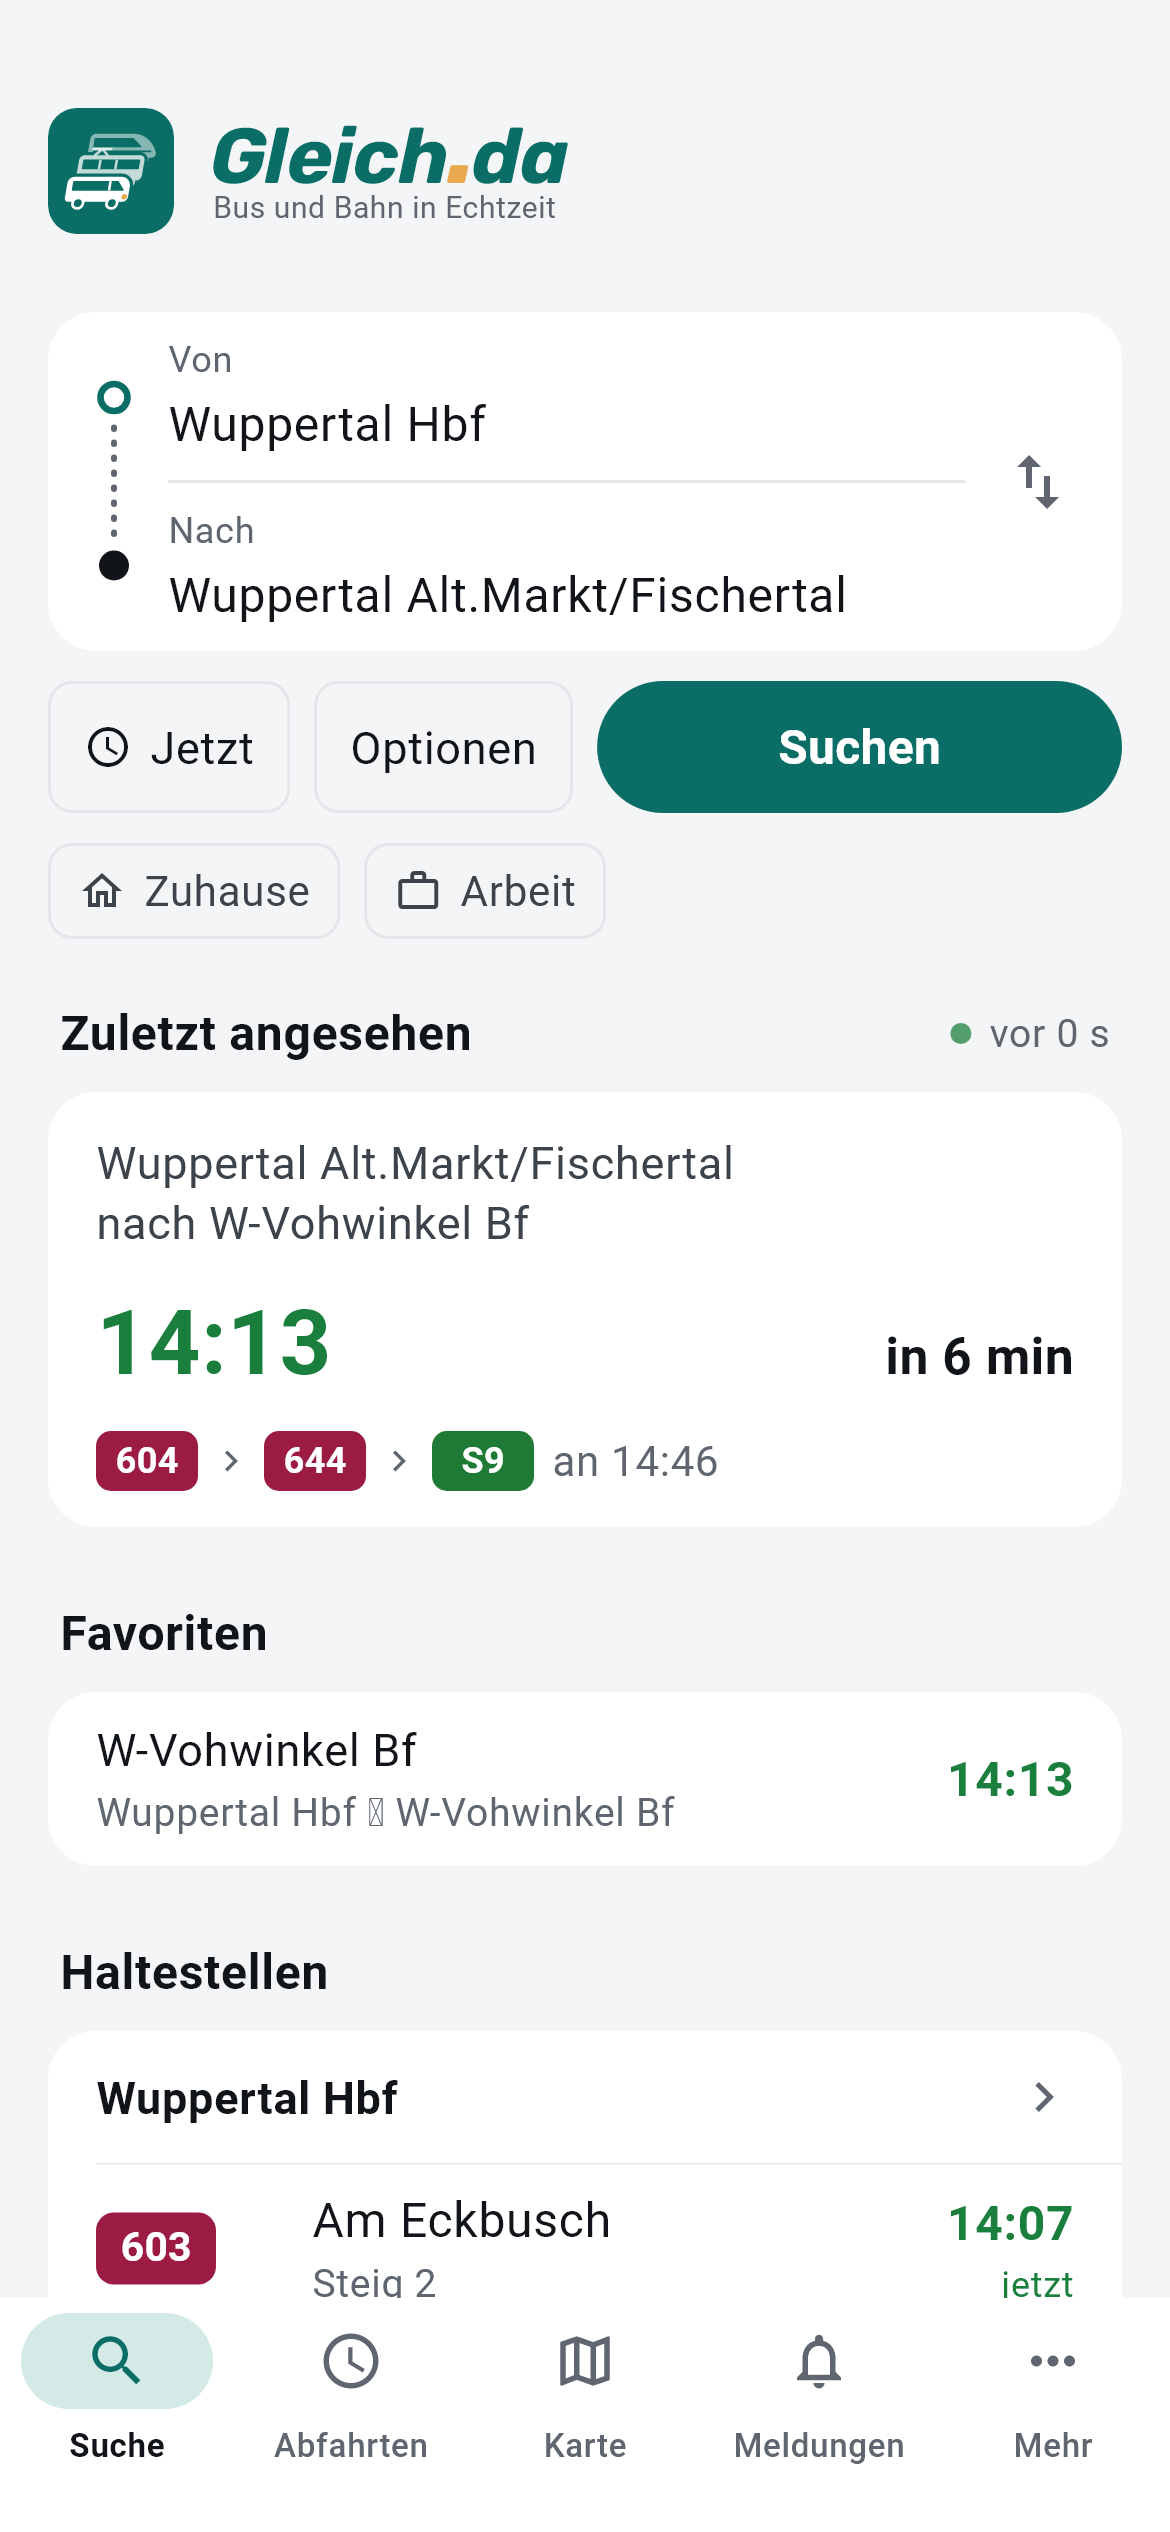
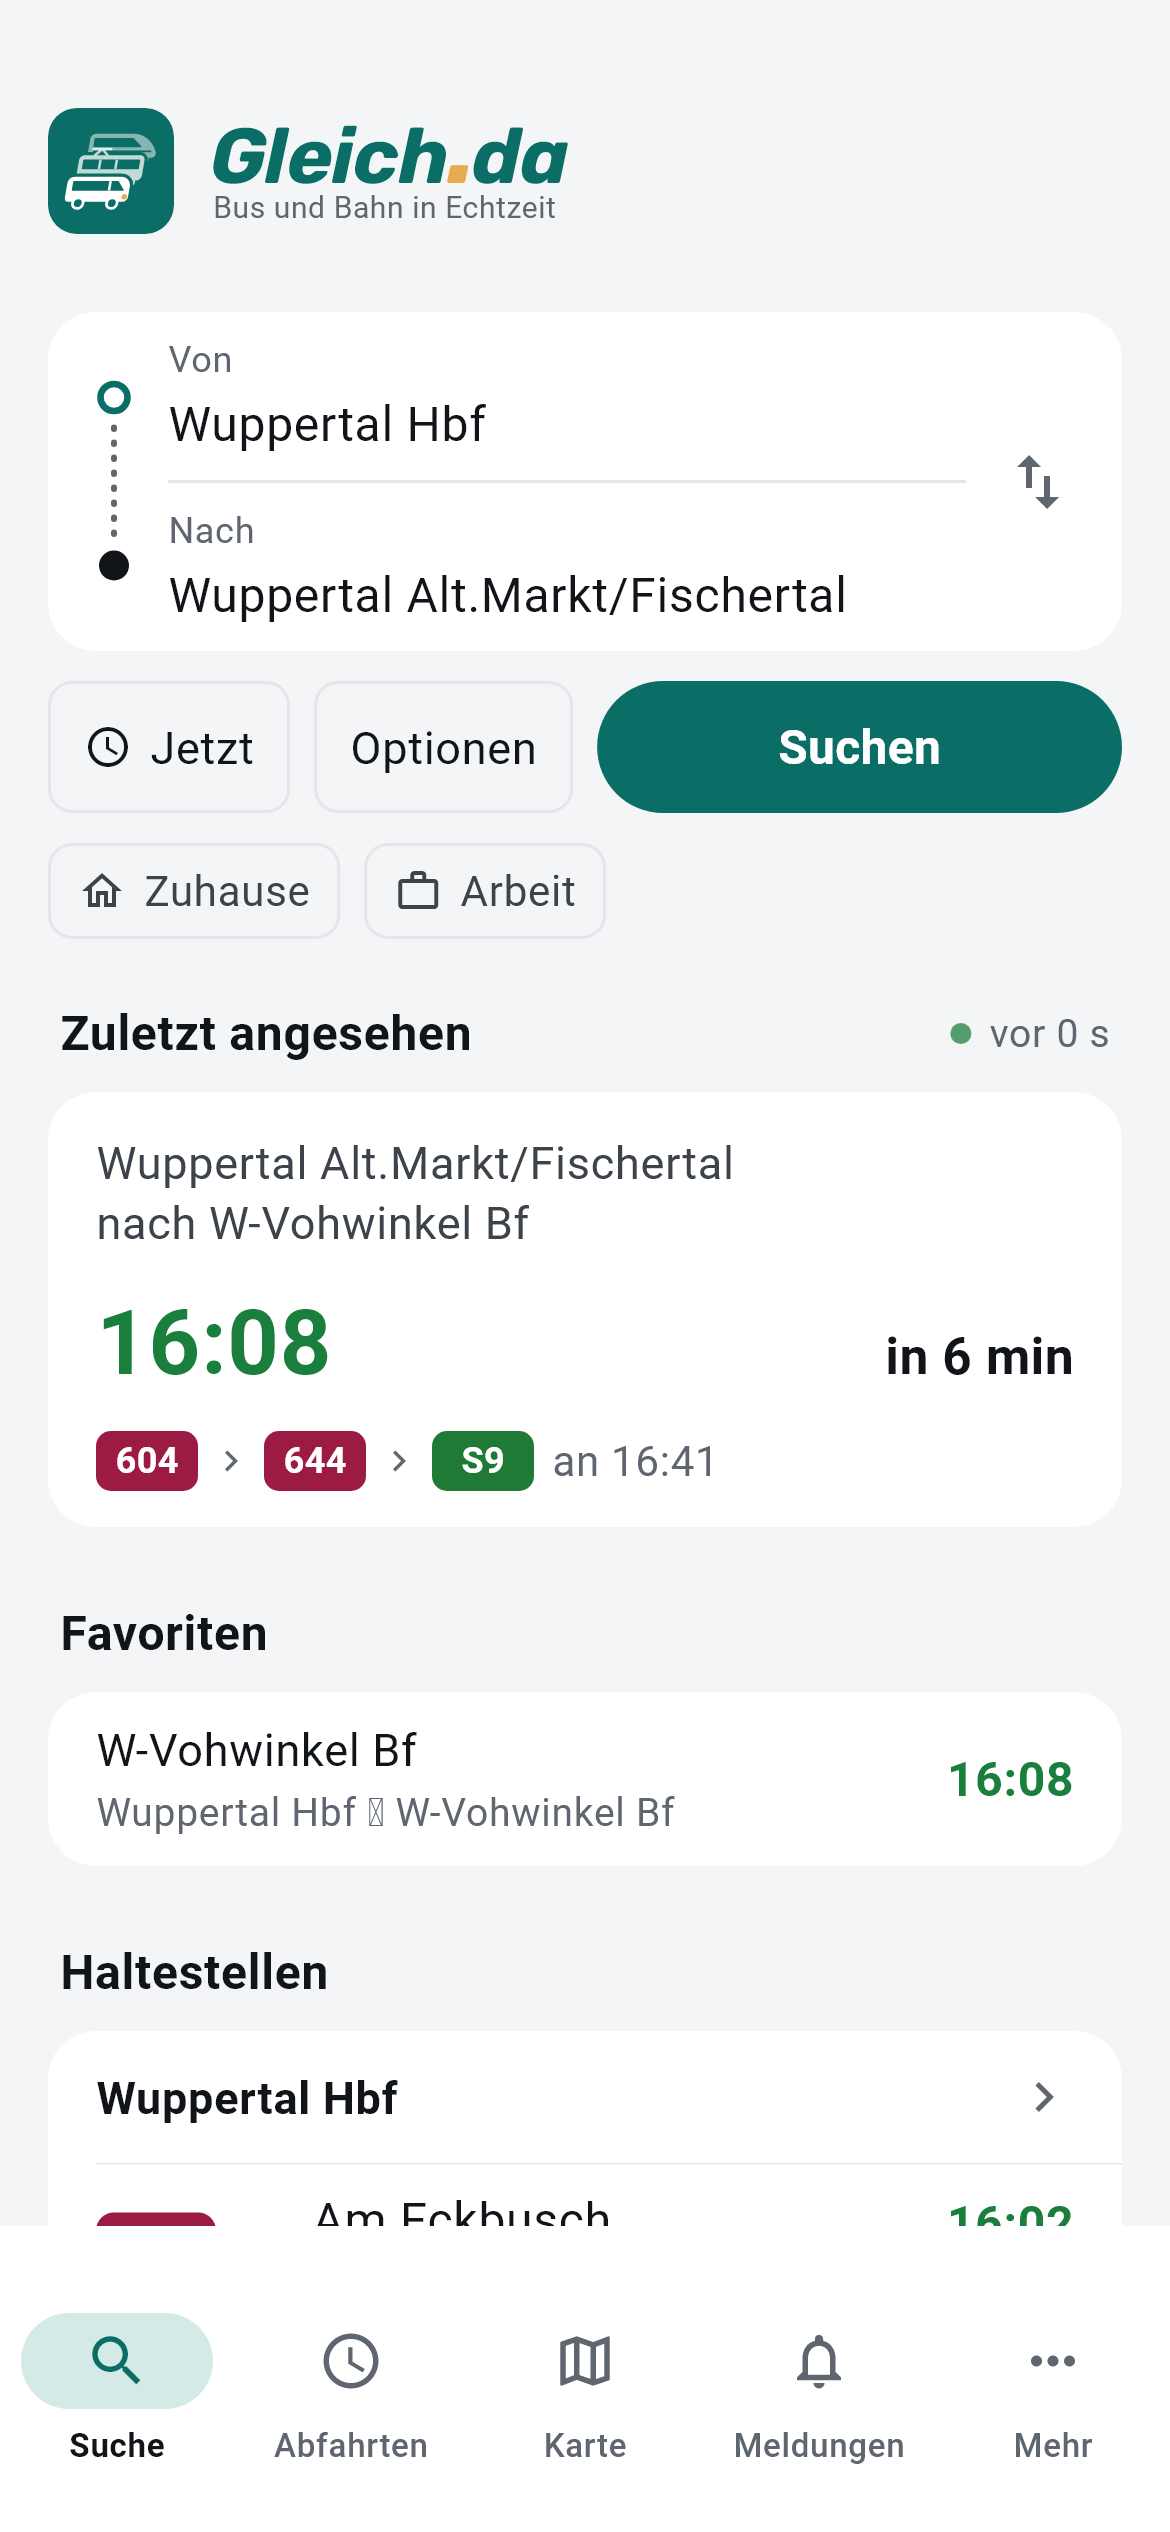
Reiterleiste bleibt auf jeder Ansicht stehen

diff --git a/lib/app.dart b/lib/app.dart
@@ -41,9 +41,32 @@ final popupOnHome = ValueNotifier<bool>(false);
 /// beim Öffnen, Zurückgehen und bei der Zurück-Geste.
 final firstPageAnimation = ValueNotifier<Animation<double>?>(null);
 
-/// Höhe der Reiterleiste: So weit über dem unteren Rand steht die
-/// Unterwegs-Leiste auf der Startseite.
+/// Höhe der Reiterleiste (mit dem Rand unten): So weit über dem unteren Rand
+/// steht die Unterwegs-Leiste.
 final tabBarHeight = ValueNotifier<double>(0);
+
+/// Gewählter Reiter der Startseite. Die Reiterleiste liegt im App-Rahmen und
+/// bleibt auf jeder Ansicht stehen (Nutzerwunsch 24.09.2026) – ein Tipp führt
+/// von überall zu diesem Reiter zurück.
+final currentTab = ValueNotifier<int>(0);
+
+/// Die Startseite mit den Reitern liegt unten im Stapel (in Bildschirmfotos
+/// einzelner Ansichten nicht) – nur dann gibt es die Reiterleiste.
+final shellMounted = ValueNotifier<bool>(false);
+
+const shellTabs = [
+  (Icons.search, 'Suche'),
+  (Icons.schedule, 'Abfahrten'),
+  (Icons.map_outlined, 'Karte'),
+  (Icons.notifications_none, 'Meldungen'),
+  (Icons.more_horiz, 'Mehr'),
+];
+
+/// Reiter wählen – aus einer geöffneten Ansicht zurück zur Startseite.
+void selectTab(int i) {
+  navigatorKey.currentState?.popUntil((r) => r.isFirst);
+  currentTab.value = i;
+}
 
 /// Merkt sich den Stapel der Ansichten: für [homeOnTop] und dafür, dass
 /// [pushOnce] keine Ansicht doppelt öffnet.
@@ -168,65 +191,84 @@ Widget appFrame(BuildContext context, Widget? child) {
   final inset = MediaQuery.paddingOf(context).bottom;
   return Consumer(builder: (context, ref, _) {
     final shown = companionShown(ref);
-    // Platz unter den Seiten freihalten (nach dem Bild, nicht im Aufbau).
-    final reserve = shown ? companionBarHeight : 0.0;
-    if (companionReserve.value != reserve) {
-      WidgetsBinding.instance.addPostFrameCallback((_) => companionReserve.value = reserve);
-    }
-    return Stack(children: [
-      // Die Ansicht behält die ganze Höhe; Seiten über der Startseite halten
-      // den Platz der Leiste selbst frei (CompanionAwareTransitions).
-      Positioned.fill(child: child!),
-      if (shown)
-        ListenableBuilder(
-          listenable: Listenable.merge([homeOnTop, popupOnHome, tabBarHeight, firstPageAnimation]),
-          builder: (context, _) {
-            final anim = firstPageAnimation.value;
-            final tabs = tabBarHeight.value;
-            final hidden = popupOnHome.value;
-            return AnimatedBuilder(
-              animation: anim ?? const AlwaysStoppedAnimation(0.0),
-              builder: (context, _) {
-                // 0 = über den Reitern (Startseite), 1 = ganz unten.
-                final t = tabs <= 0
-                    ? 1.0
-                    : anim == null
-                        ? (homeOnTop.value ? 0.0 : 1.0)
-                        : (MediaQuery.of(context).disableAnimations ? anim.value.roundToDouble() : Motion.curve.transform(anim.value));
-                return Positioned(
-                  left: 0,
-                  right: 0,
-                  bottom: tabs * (1 - t),
-                  child: IgnorePointer(
-                    ignoring: hidden,
-                    child: AnimatedOpacity(
-                      duration: Motion.of(context, Motion.short),
-                      opacity: hidden ? 0 : 1,
-                      child: _SlideIn(
-                        child: ColoredBox(
-                          color: context.c.bar,
-                          child: Column(mainAxisSize: MainAxisSize.min, children: [
-                            const GlobalCompanionBar(),
-                            SizedBox(height: inset * t),
-                          ]),
-                        ),
-                      ),
-                    ),
+    return ListenableBuilder(
+      listenable: Listenable.merge([shellMounted, tabBarHeight, popupOnHome]),
+      builder: (context, _) {
+        final shell = shellMounted.value;
+        // Platz unter jeder geöffneten Ansicht: Unterwegs-Leiste und Reiter
+        // (nach dem Bild setzen, nicht im Aufbau).
+        final reserve = (shown ? companionBarHeight : 0.0) + (shell ? tabBarHeight.value : (shown ? inset : 0.0));
+        if (companionReserve.value != reserve) {
+          WidgetsBinding.instance.addPostFrameCallback((_) => companionReserve.value = reserve);
+        }
+        final hidden = popupOnHome.value;
+        return Stack(children: [
+          Positioned.fill(child: child!),
+          // Unten: Unterwegs-Leiste und darunter die Reiter – auf jeder Ansicht.
+          // Über Blättern von unten und Dialogen treten beide zurück.
+          if (shell || shown)
+            Positioned(
+              left: 0,
+              right: 0,
+              bottom: 0,
+              child: IgnorePointer(
+                ignoring: hidden,
+                child: AnimatedSlide(
+                  duration: Motion.of(context, Motion.short),
+                  curve: Motion.curve,
+                  offset: hidden ? const Offset(0, 1) : Offset.zero,
+                  child: ColoredBox(
+                    color: context.c.bar,
+                    child: Column(mainAxisSize: MainAxisSize.min, children: [
+                      if (shown) const _SlideIn(child: GlobalCompanionBar()),
+                      if (shell)
+                        const _TabBar()
+                      else if (shown)
+                        SizedBox(height: inset),
+                    ]),
                   ),
-                );
-              },
-            );
-          },
-        ),
-      Positioned(
-        top: 0,
-        left: 0,
-        right: 0,
-        height: top,
-        child: IgnorePointer(child: ColoredBox(color: Theme.of(context).scaffoldBackgroundColor)),
-      ),
-    ]);
+                ),
+              ),
+            ),
+          Positioned(
+            top: 0,
+            left: 0,
+            right: 0,
+            height: top,
+            child: IgnorePointer(child: ColoredBox(color: Theme.of(context).scaffoldBackgroundColor)),
+          ),
+        ]);
+      },
+    );
   });
+}
+
+/// Reiterleiste für die ganze App.
+class _TabBar extends StatelessWidget {
+  const _TabBar();
+
+  @override
+  Widget build(BuildContext context) => _MeasureHeight(
+        onHeight: (h) => tabBarHeight.value = h,
+        child: ValueListenableBuilder<int>(
+          valueListenable: currentTab,
+          builder: (context, tab, _) => Material(
+            type: MaterialType.transparency,
+            child: context.isIOS
+                ? _IosTabBar(index: tab, onTap: selectTab, tabs: shellTabs)
+                : NavigationBar(
+                    selectedIndex: tab,
+                    onDestinationSelected: selectTab,
+                    labelBehavior: NavigationDestinationLabelBehavior.alwaysShow,
+                    destinations: [
+                      // Ohne Tooltip: Die Beschriftung steht darunter, und über dem
+                      // Navigator (App-Rahmen) gibt es keine Ebene für Tooltips.
+                      for (final t in shellTabs) NavigationDestination(icon: Icon(t.$1), label: t.$2, tooltip: ''),
+                    ],
+                  ),
+          ),
+        ),
+      );
 }
 
 /// Die Leiste erscheint beim Losfahren von unten statt plötzlich.
@@ -265,13 +307,18 @@ class HomeShell extends ConsumerStatefulWidget {
 }
 
 class _HomeShellState extends ConsumerState<HomeShell> {
-  int _tab = 0;
+  int get _tab => currentTab.value;
   final _visited = <int>{0};
+
+  void _onTab() => setState(() => _visited.add(currentTab.value));
   late final AppLifecycleListener _life;
 
   @override
   void initState() {
     super.initState();
+    currentTab.addListener(_onTab);
+    _visited.add(currentTab.value);
+    WidgetsBinding.instance.addPostFrameCallback((_) => shellMounted.value = true);
     // Versionsabgleich beim Start anstoßen.
     Future.microtask(() => ref.read(updateProvider));
     // Erster Start: erklären, wofür der Standort gebraucht wird – bevor
@@ -313,22 +360,11 @@ class _HomeShellState extends ConsumerState<HomeShell> {
 
   @override
   void dispose() {
+    currentTab.removeListener(_onTab);
+    shellMounted.value = false;
     _life.dispose();
     super.dispose();
   }
-
-  void _select(int i) => setState(() {
-        _tab = i;
-        _visited.add(i);
-      });
-
-  static const _tabs = [
-    (Icons.search, 'Suche'),
-    (Icons.schedule, 'Abfahrten'),
-    (Icons.map_outlined, 'Karte'),
-    (Icons.notifications_none, 'Meldungen'),
-    (Icons.more_horiz, 'Mehr'),
-  ];
 
   @override
   Widget build(BuildContext context) {
@@ -356,29 +392,16 @@ class _HomeShellState extends ConsumerState<HomeShell> {
           ),
           const Positioned(left: 12, right: 12, bottom: 12, child: UpdateToast()),
         ]),
-        // Platz für die Unterwegs-Leiste über den Reitern (sie selbst liegt
-        // in appFrame und gleitet beim Ansichtwechsel); die Reiter bleiben fest.
-        bottomNavigationBar: Column(mainAxisSize: MainAxisSize.min, children: [
-          AnimatedContainer(
+        // Platz für Unterwegs-Leiste und Reiter – beide liegen im App-Rahmen
+        // und bleiben auf jeder Ansicht stehen.
+        bottomNavigationBar: ValueListenableBuilder<double>(
+          valueListenable: tabBarHeight,
+          builder: (context, tabs, _) => AnimatedContainer(
             duration: companionMove,
             curve: Motion.curve,
-            height: companionShown(ref) ? companionBarHeight : 0,
+            height: (companionShown(ref) ? companionBarHeight : 0) + tabs,
           ),
-          _MeasureHeight(
-            onHeight: (h) => tabBarHeight.value = h,
-            child: context.isIOS
-            ? _IosTabBar(index: _tab, onTap: _select, tabs: _tabs)
-            : NavigationBar(
-                selectedIndex: _tab,
-                onDestinationSelected: _select,
-                labelBehavior: NavigationDestinationLabelBehavior.alwaysShow,
-                destinations: [
-                  for (final t in _tabs)
-                    NavigationDestination(icon: Icon(t.$1), label: t.$2),
-                ],
-              ),
-          ),
-        ]),
+        ),
       ),
     );
   }

diff --git a/lib/ui/theme.dart b/lib/ui/theme.dart
@@ -1,3 +1,5 @@
+import 'dart:math' as math;
+
 import 'package:flutter/cupertino.dart' show CupertinoPageTransitionsBuilder;
 import 'package:flutter/material.dart';
 
@@ -419,16 +421,30 @@ class _CompanionReserve extends StatelessWidget {
 
   @override
   Widget build(BuildContext context) {
-    final inset = MediaQuery.paddingOf(context).bottom;
     final bar = Theme.of(context).extension<AppColors>()!.bar;
     // Immer derselbe Aufbau – sonst ginge beim Losfahren der Zustand der Seite verloren.
     return ValueListenableBuilder<double>(
       valueListenable: companionReserve,
       child: child,
-      builder: (context, h, child) => Column(children: [
-        Expanded(child: MediaQuery.removePadding(context: context, removeBottom: h > 0, child: child!)),
-        ColoredBox(color: bar, child: SizedBox(width: double.infinity, height: h > 0 ? h + inset : 0)),
-      ]),
+      builder: (context, h, child) {
+        // Die Tastatur verdeckt die Leisten mit – sie zählt nur, soweit sie
+        // über den freigehaltenen Platz hinausreicht.
+        final mq = MediaQuery.of(context);
+        final kb = math.max(0.0, mq.viewInsets.bottom - h);
+        return Column(children: [
+          Expanded(
+            child: MediaQuery(
+              data: mq.copyWith(
+                padding: h > 0 ? mq.padding.copyWith(bottom: 0) : mq.padding,
+                viewPadding: h > 0 ? mq.viewPadding.copyWith(bottom: 0) : mq.viewPadding,
+                viewInsets: mq.viewInsets.copyWith(bottom: kb),
+              ),
+              child: child!,
+            ),
+          ),
+          ColoredBox(color: bar, child: SizedBox(width: double.infinity, height: h)),
+        ]);
+      },
     );
   }
 }

diff --git a/test_screens/screens_test.dart b/test_screens/screens_test.dart
@@ -204,6 +204,8 @@ void main() {
     tester.platformDispatcher.textScaleFactorTestValue = textScale;
     addTearDown(tester.platformDispatcher.clearTextScaleFactorTestValue);
     tabBarHeight.value = 0; // Reiterleiste eines vorigen Tests vergessen
+    currentTab.value = 0; // gewählter Reiter ist app-weit – je Bild neu
+    shellMounted.value = false;
     tester.view.physicalSize = const Size(390 * 3, 844 * 3);
     tester.view.devicePixelRatio = 3;
     tester.view.padding = const FakeViewPadding(top: 24 * 3, bottom: 16 * 3);
@@ -431,7 +433,7 @@ void main() {
         overrides: [companionProvider.overrideWith(() => _Following(onBoard.id))],
         act: (t) async {
           // Von der Startseite in die Fahrt: Die Leiste gleitet nach ganz unten.
-          Navigator.of(t.element(find.byType(NavigationBar)))
+          Navigator.of(t.element(find.byType(HomeShell)))
               .push(MaterialPageRoute<void>(builder: (_) => const TripScreen()));
           for (var i = 0; i < 6; i++) {
             await t.pump(const Duration(milliseconds: 100));
@@ -444,7 +446,7 @@ void main() {
         seed: (r) => r.saveLastTrip(onBoard),
         overrides: [companionProvider.overrideWith(() => _Following(onBoard.id))],
         act: (t) async {
-          Navigator.of(t.element(find.byType(NavigationBar)))
+          Navigator.of(t.element(find.byType(HomeShell)))
               .push(MaterialPageRoute<void>(builder: (_) => const TripScreen()));
           await t.pump();
           await t.pump(const Duration(milliseconds: 110)); // mitten im Wechsel

diff --git a/docs/abgleich.md b/docs/abgleich.md
@@ -471,3 +471,7 @@ Quelle: geteilter Chat (`docs/chat-verlauf.txt`), Klick-Prototyp, `docs/konzept.
 - ✅ Zeitraster passt sich den sichtbaren Fahrten an: Die Zeitachse umfasst nur die Spalten, die gerade zu sehen sind
   (mindestens 60 % sichtbar), und gleitet beim seitlichen Wischen mit (`Motion.medium`); nach „Später“ blieben die
   vorderen Fahrten sonst winzig. Höhe des Rasters fest, wenige Fahrten füllen die Breite; erste Anpassung ohne Übergang
+- ✅ Reiterleiste auf jeder Ansicht (Nutzerwunsch): liegt im App-Rahmen (`appFrame`, `currentTab`, `selectTab`),
+  die Unterwegs-Leiste direkt darüber; geöffnete Ansichten halten den Platz für beide frei (`_CompanionReserve`,
+  Tastatur zählt nur darüber hinaus). Ein Tipp auf einen Reiter führt von überall zurück. Über Blättern und Dialogen
+  gleiten beide Leisten weg
